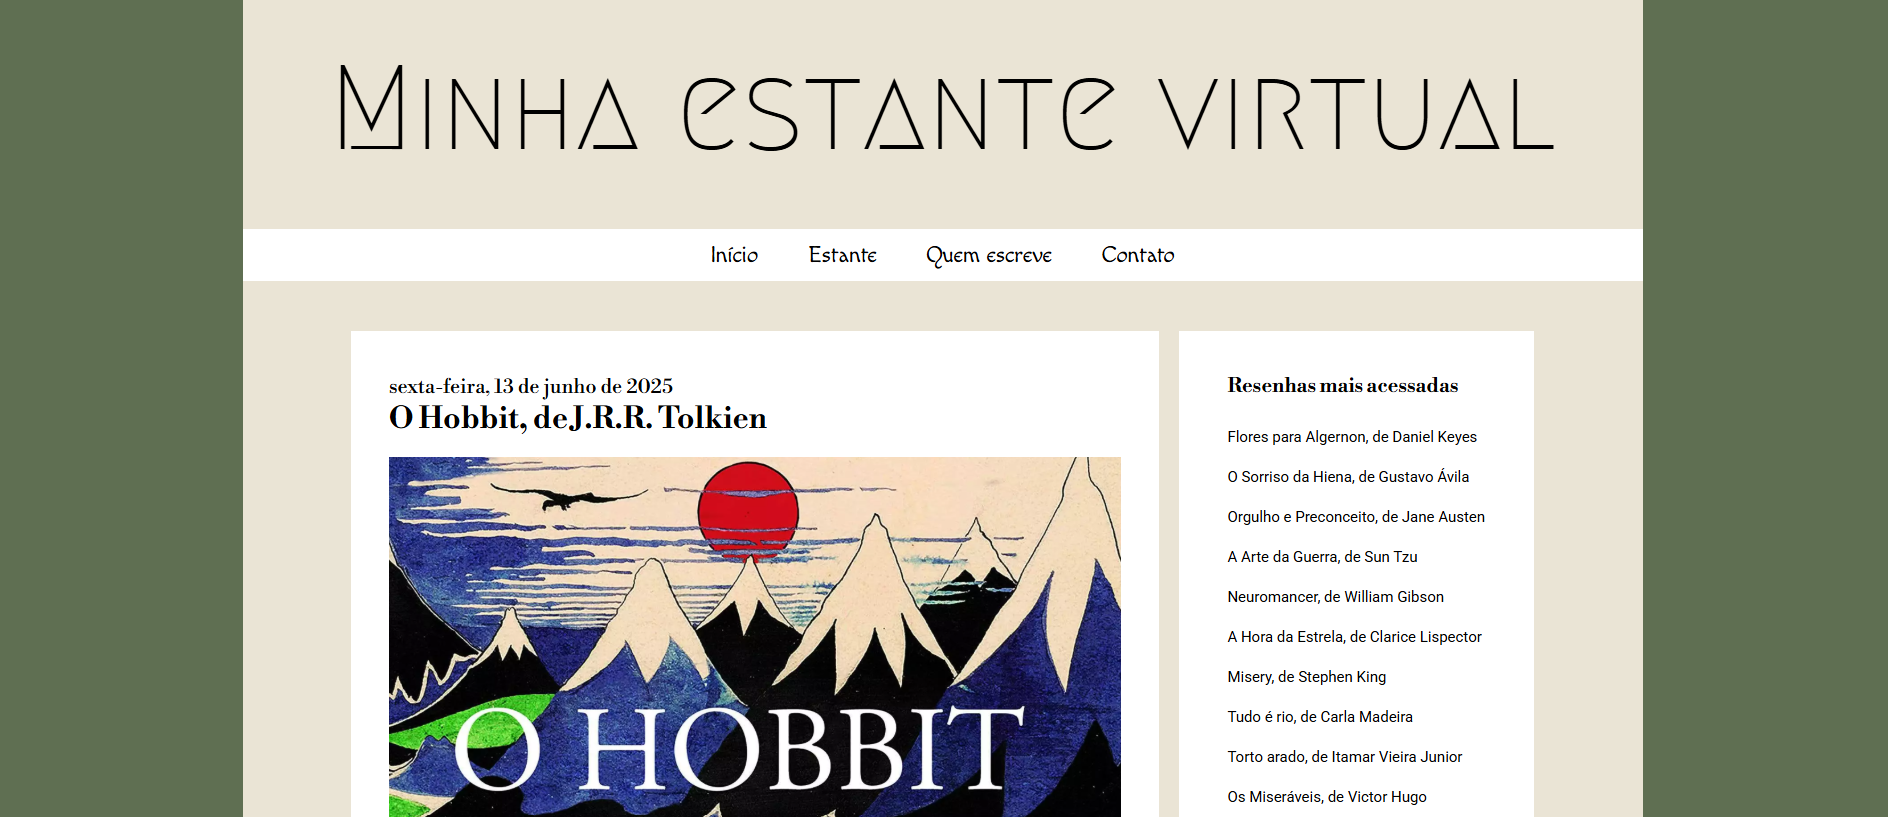
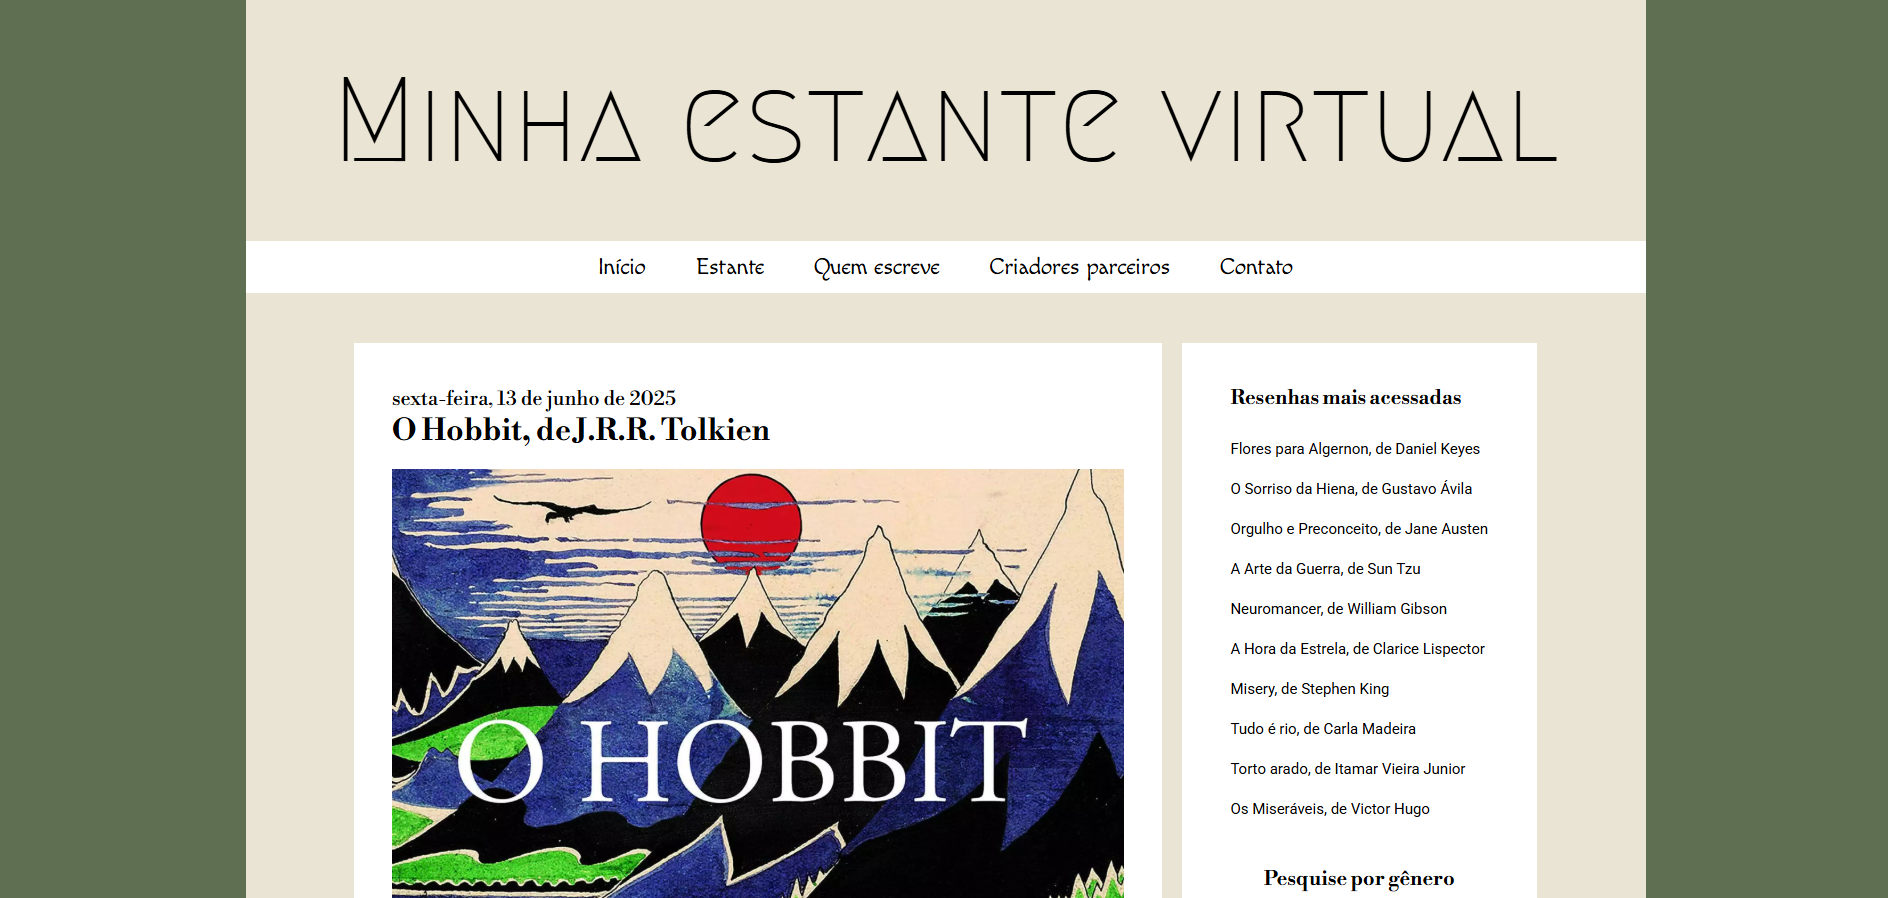
atualização do arquivo README.md

Changed region(s): [[0.125, 0.2448, 0.875, 1.0], [0.1562, 0.0918, 0.8125, 0.1836]]

diff --git a/README.md b/README.md
@@ -8,7 +8,7 @@
 
 <br>
 
-![Imagem prévia](/imgs/preview.png)
+![Preview image](/imgs/preview.png)
 
 
 ## Technologies
@@ -22,6 +22,12 @@ This project was developed with the following technologies:
 ## Project
 
 For Professor Danielle's Web Design course, from IFRN/CNAT, a fictitious blog was developed whose content is based on book reviews and other related topics. This project required the design of at least three interfaces in Figma and their subsequent development using HTML and CSS.
+
+For the final project of the course, two more pages were requested to be created within the initial project, in addition to other prerequisites that had already been met in the previous stage. Therefore, the "Partner Creators" tab was created and others were edited, such as "Shelf", "Who writes" and "Contact".
+
+![Shelf](/imgs/estante.png)
+
+![Partners](/imgs/parceiros.png)
 
 
 ---
@@ -60,6 +66,11 @@ Este projeto foi desenvolvido com as seguintes tecnologias:
 
 Para a disciplina de Web Design da professora Danielle, do IFRN/CNAT, foi desenvolvido um blog fictício cujo conteúdo é baseado em resenhas de livros e outros assuntos correlatos. A atividade em questão pedia o design de pelo menos três interfaces no Figma e seu posterior desenvolvimento utilizando HTML e CSS. 
 
+Já para o projeto final da disciplina, foi pedida a criação de mais duas páginas dentro do projeto inicial, além de outros pré-requisitos que já haviam sido atendidos na etapa anterior. Dessa forma, foi criada a aba "Criadores parceiros" e outras foram editadas, como "Estante", "Quem escreve" e "Contato".
+
+![Estante](/imgs/estante.png)
+
+![Parceiros](/imgs/parceiros.png)
 
 ---
 
